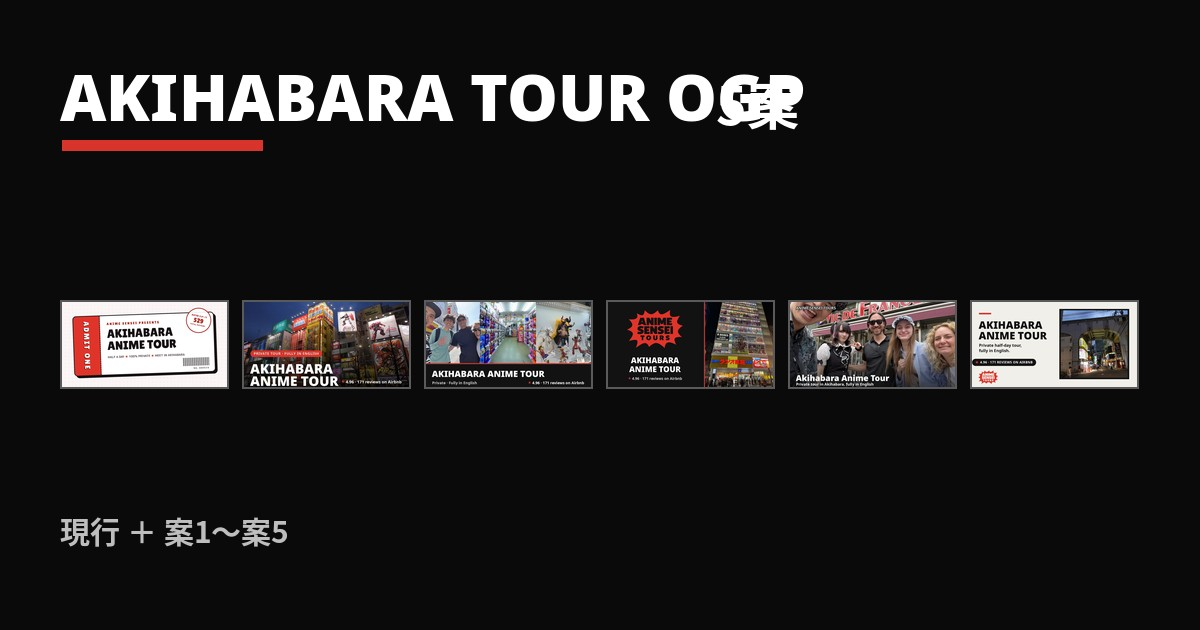
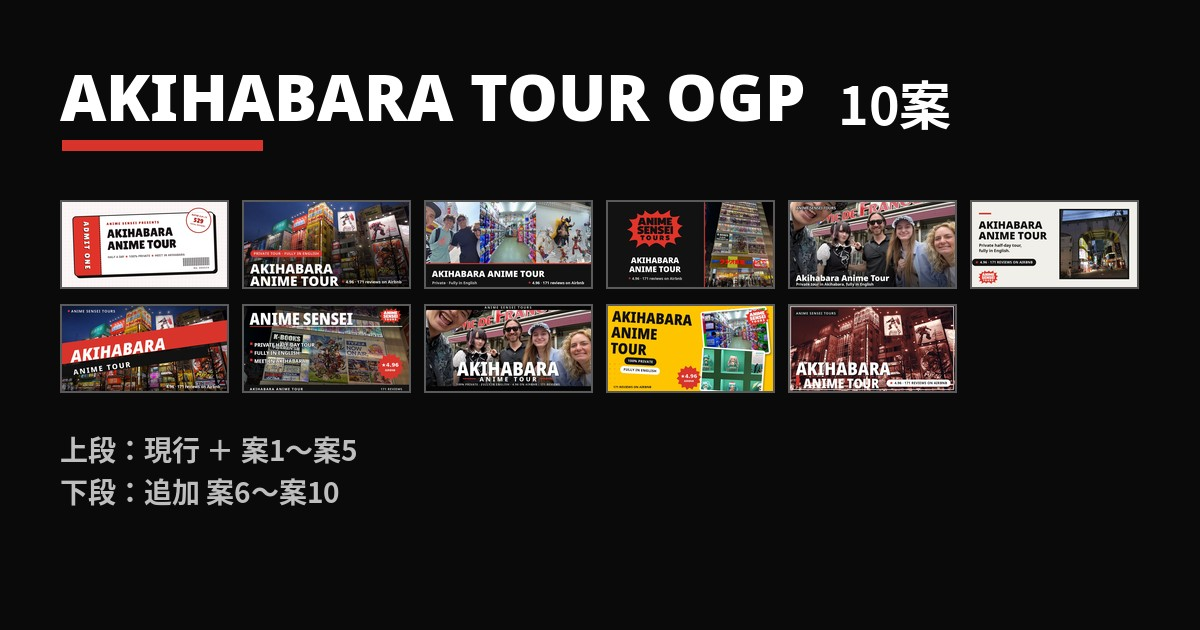
秋葉原アニメツアーLP OGP追加5案（案6〜10）をボードに追加

diff --git a/akiba-tour-ogp/index.html b/akiba-tour-ogp/index.html
@@ -3,9 +3,9 @@
 <head>
 <meta charset="utf-8">
 <meta name="viewport" content="width=device-width, initial-scale=1">
-<title>秋葉原アニメツアーLP OGP 5案</title>
-<meta property="og:title" content="秋葉原アニメツアーLP OGP 5案">
-<meta property="og:description" content="animesenseijp.com/akihabara-tour/ のOGP画像、新デザイン5案の見比べ。現行との比較つき。">
+<title>秋葉原アニメツアーLP OGP 10案</title>
+<meta property="og:title" content="秋葉原アニメツアーLP OGP 10案">
+<meta property="og:description" content="animesenseijp.com/akihabara-tour/ のOGP画像、新デザイン10案の見比べ。現行との比較つき。">
 <meta property="og:image" content="https://yukitchy.github.io/booking-trends-board/akiba-tour-ogp/og.jpg">
 <meta property="og:url" content="https://yukitchy.github.io/booking-trends-board/akiba-tour-ogp/">
 <style>
@@ -21,16 +21,21 @@
   .hd { display: flex; align-items: baseline; gap: 12px; margin-bottom: 10px; flex-wrap: wrap; }
   .num { background: #141414; color: #fff; font-weight: 900; font-size: 15px; padding: 4px 12px; border-radius: 999px; }
   .num.cur { background: #8a8a8a; }
+  .num.new { background: #D9342B; }
   .cap { font-size: 14.5px; font-weight: 700; }
   .sub { font-size: 12.5px; color: #666; width: 100%; }
   img.ogp { width: 1200px; max-width: 100%; height: auto; display: block; border: 1px solid #d8d4cc; background: #fff; }
+  .sep { display: flex; align-items: center; gap: 14px; margin: 56px 0 36px; }
+  .sep .t { font-size: 19px; font-weight: 900; white-space: nowrap; }
+  .sep .l { flex: 1; height: 3px; background: #141414; }
+  .sep .r { width: 64px; height: 3px; background: #D9342B; }
 </style>
 </head>
 <body>
 <div class="wrap">
-  <h1>秋葉原アニメツアーLP<br>OGP画像 5案</h1>
+  <h1>秋葉原アニメツアーLP<br>OGP画像 10案</h1>
   <div class="rule"></div>
-  <p class="lead">対象ページ：<a href="https://www.animesenseijp.com/akihabara-tour/">Akihabara Anime Tour（animesenseijp.com/akihabara-tour/）</a>の OGP 画像、新デザイン5案です。全案 1200×630・実写真使用。本番の og:image はまだ差し替えていません。</p>
+  <p class="lead">対象ページ：<a href="https://www.animesenseijp.com/akihabara-tour/">Akihabara Anime Tour（animesenseijp.com/akihabara-tour/）</a>の OGP 画像、新デザイン10案です。案6〜案10は「もっとワクワクさせる、オシャレな感じで」という方向で追加した第2弾です。全案 1200×630・実写真使用。本番の og:image はまだ差し替えていません。</p>
   <p class="note">番号で選んでください。選ばれた案を本番に設定します。</p>
 
   <section>
@@ -67,6 +72,38 @@
     <div class="hd"><span class="num">案5</span><span class="cap">紙色ベース＋写真フレーム</span>
     <span class="sub">紙色 #F1EFEA に高架下の路地写真を黒枠で額装、黒タイポ＋評価ピル＋公式ロゴ。eatmap系の明るいタイプ。</span></div>
     <img class="ogp" src="ogp-5.jpg" alt="案5">
+  </section>
+
+  <div class="sep"><span class="t">追加5案</span><span class="l"></span><span class="r"></span></div>
+
+  <section>
+    <div class="hd"><span class="num new">案6</span><span class="cap">ネオン・スラッシュ</span>
+    <span class="sub">秋葉原の夜景に赤い斜め帯を切り込み、タイトルもイタリックで斜めに走らせた、スピード感と熱量のあるタイプ。</span></div>
+    <img class="ogp" src="ogp-6.jpg" alt="案6">
+  </section>
+
+  <section>
+    <div class="hd"><span class="num new">案7</span><span class="cap">雑誌の表紙型</span>
+    <span class="sub">ラジオ会館の壁面写真を表紙に、マストヘッド＋カバーライン＋スターバーストの評価バッジで、雑誌の表紙の文法で組んだタイプ。</span></div>
+    <img class="ogp" src="ogp-7.jpg" alt="案7">
+  </section>
+
+  <section>
+    <div class="hd"><span class="num new">案8</span><span class="cap">映画ポスター型</span>
+    <span class="sub">ゲストとの集合写真をシネマティックに。上下のレターボックス＋中央の大タイトル＋下部のクレジット風ラインで、映画ポスターの文法に。</span></div>
+    <img class="ogp" src="ogp-8.jpg" alt="案8">
+  </section>
+
+  <section>
+    <div class="hd"><span class="num new">案9</span><span class="cap">ステッカーポップ型</span>
+    <span class="sub">ビビッドな黄色の地に、ガシャポンとフィギュアの写真ステッカー、公式ロゴと評価バッジを散らした、遊び心のあるタイプ。</span></div>
+    <img class="ogp" src="ogp-9.jpg" alt="案9">
+  </section>
+
+  <section>
+    <div class="hd"><span class="num new">案10</span><span class="cap">デュオトーン・ポスター型</span>
+    <span class="sub">秋葉原の夜景を赤系デュオトーンに落とし込み、紙色のフレームと大タイポで、映画ポスターのように仕上げたタイプ。</span></div>
+    <img class="ogp" src="ogp-10.jpg" alt="案10">
   </section>
 
 </div>
